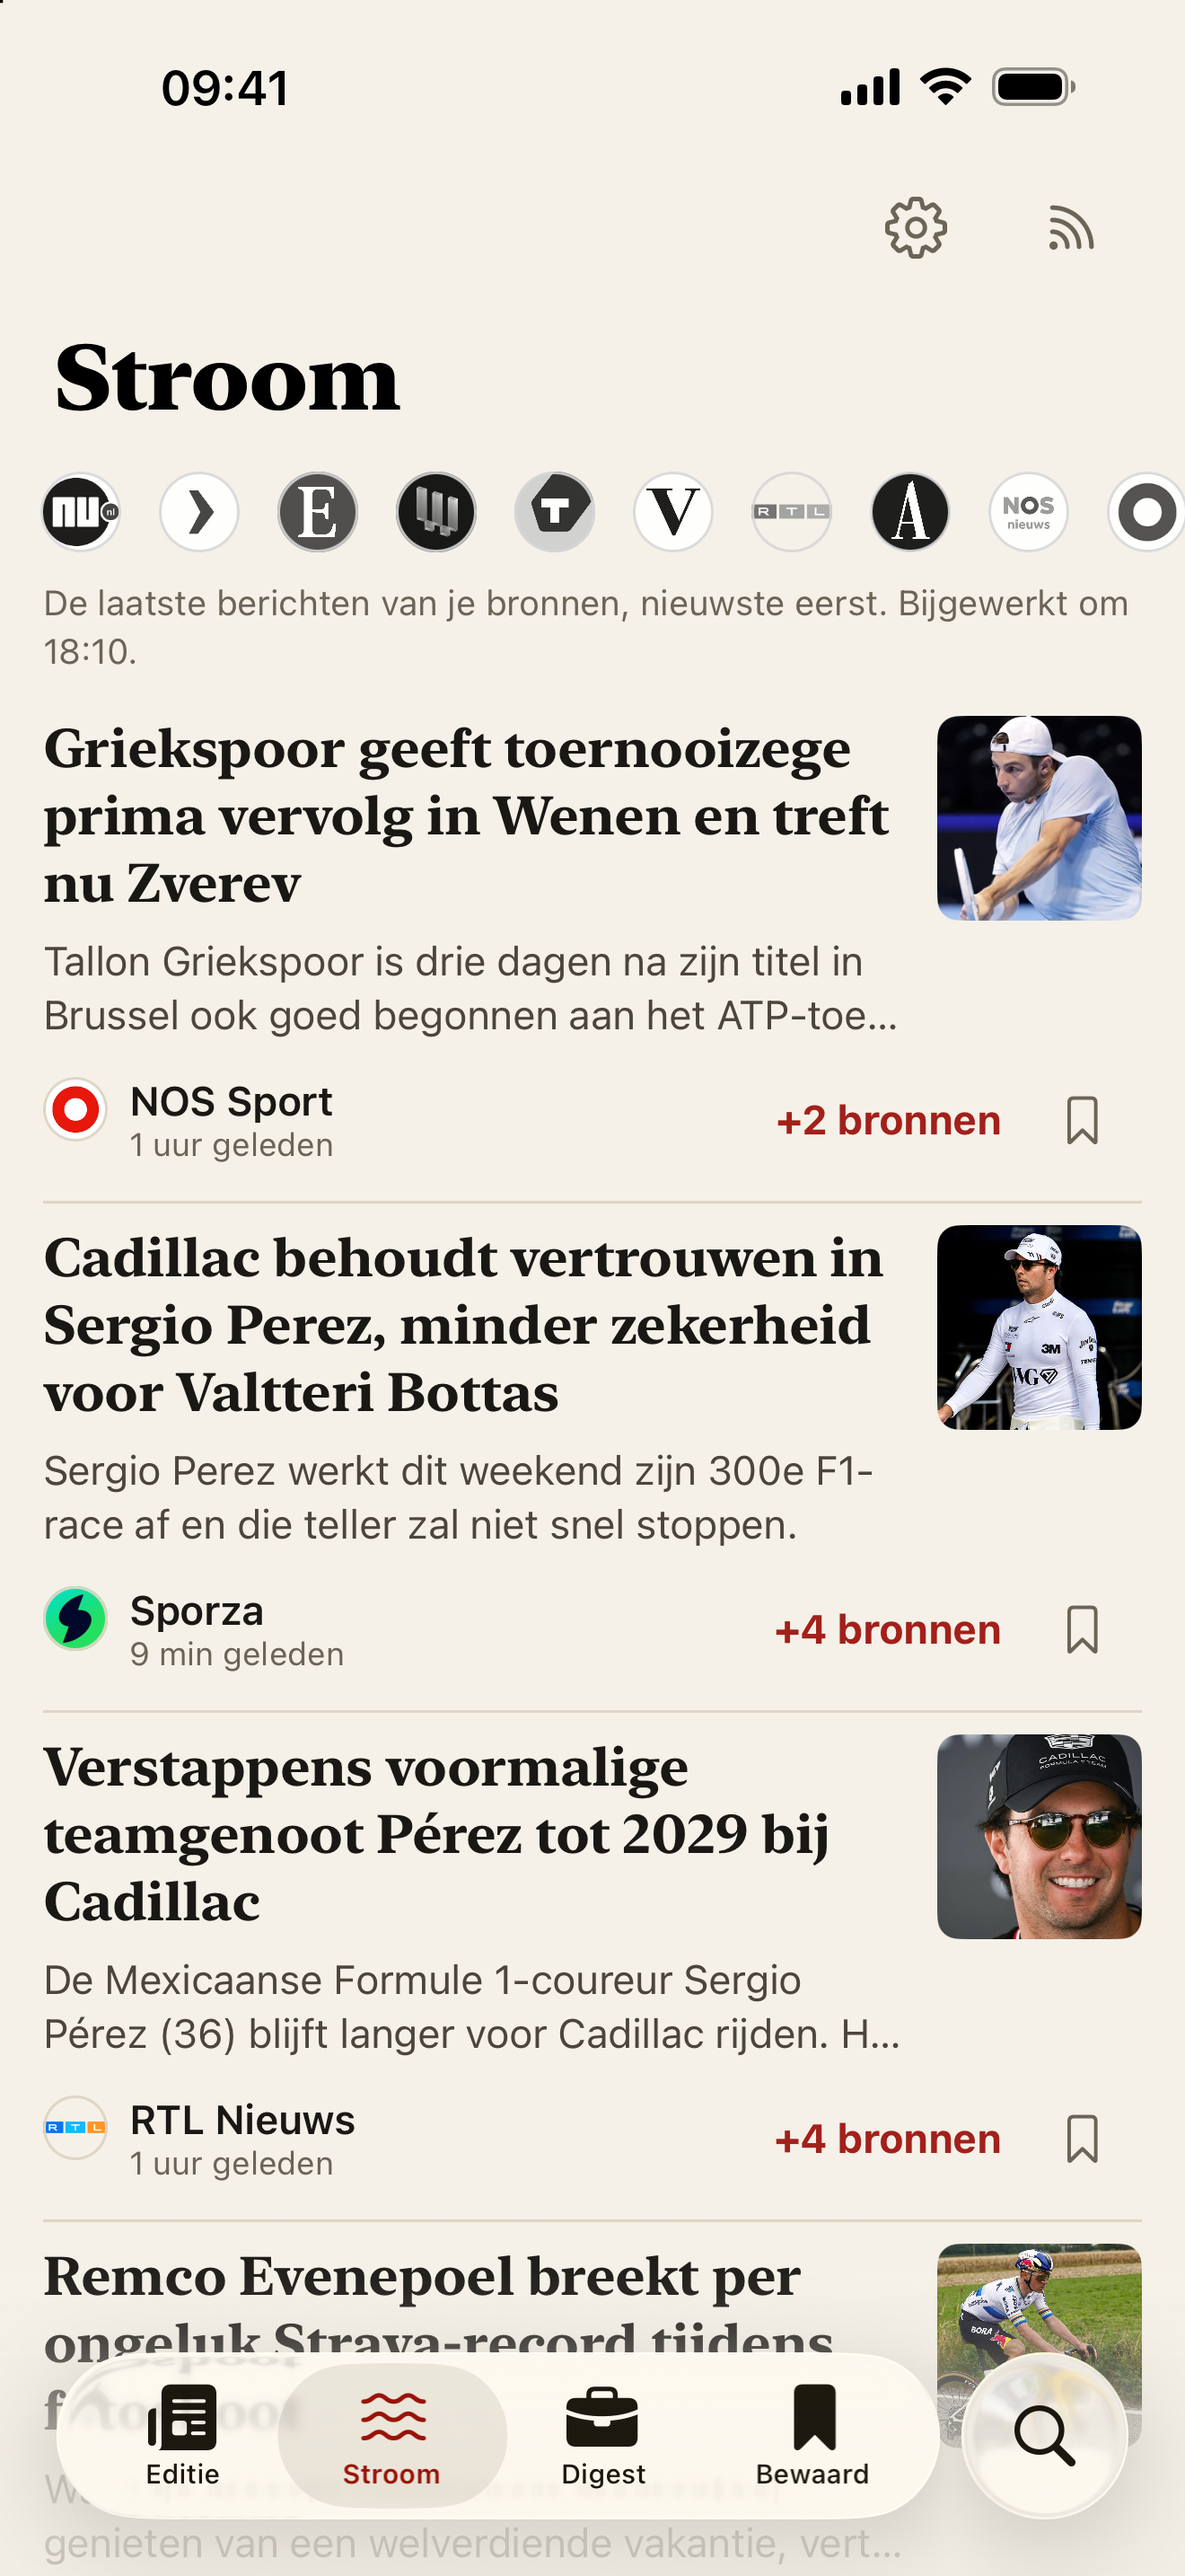
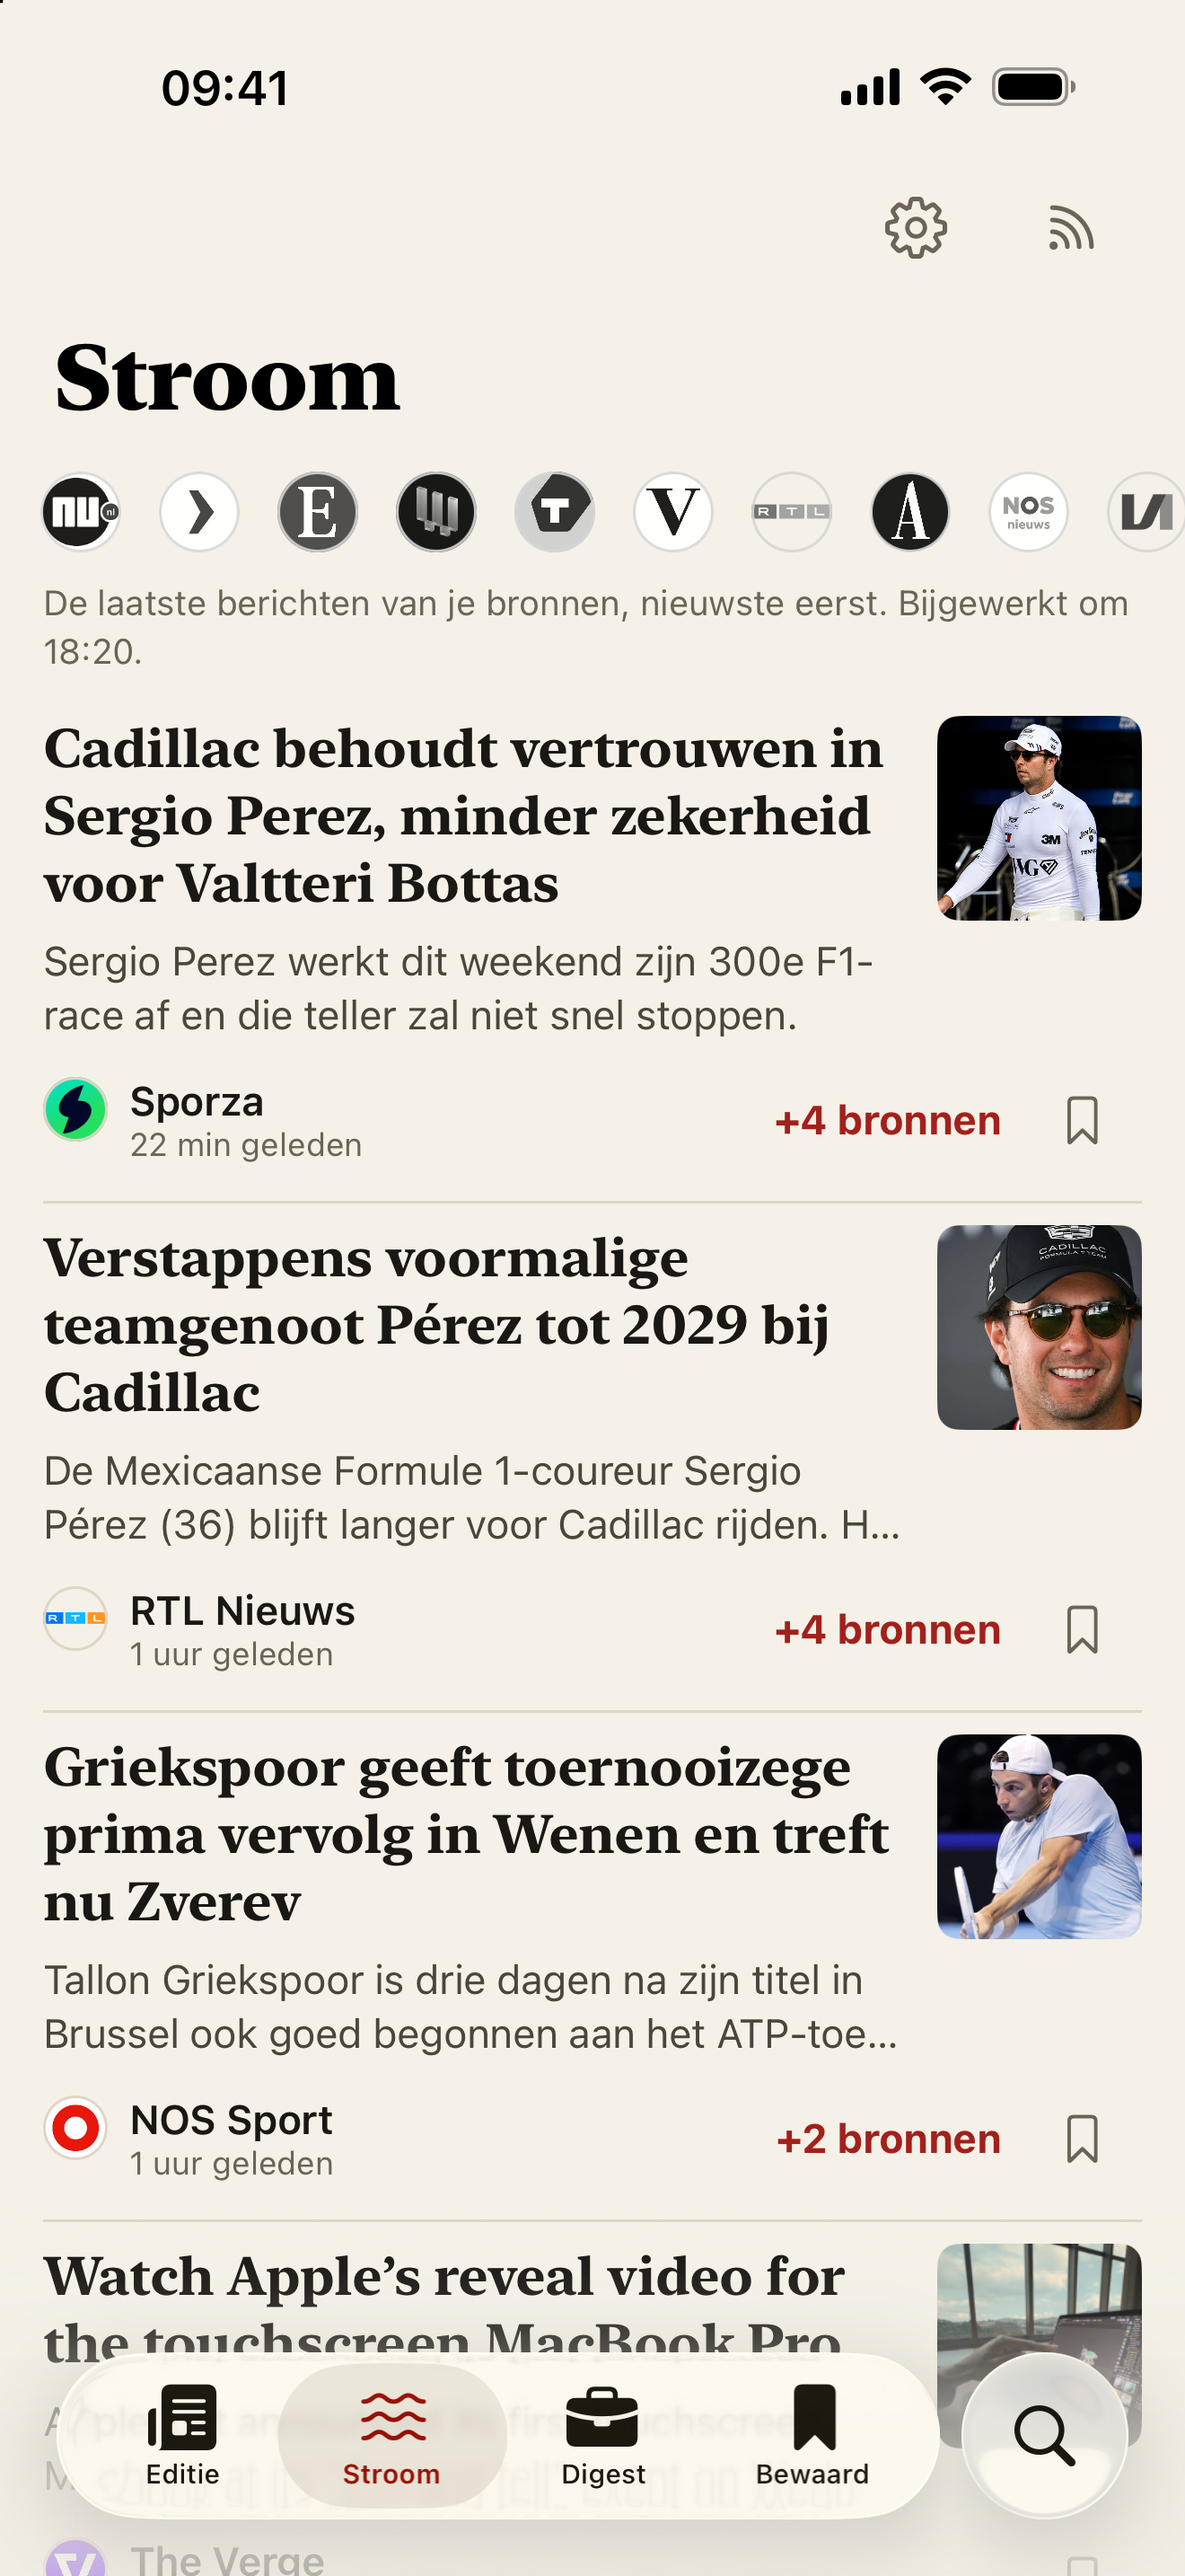
App Store: Sardinië opent, Vergelijken zonder dubbele kop (kop tikbaar), einde netjes in beeld, lezer zonder '(opent in nieuw venster)'; beschrijving noemt tien vakgebieden

diff --git a/ios/Hoot/Views/EditionView.swift b/ios/Hoot/Views/EditionView.swift
@@ -28,6 +28,10 @@ extension HootStore {
         // App Store-opnamen: gekozen echte verhalen (neutraal of positief) in de gegeven volgorde.
         if !DebugLaunch.feature.isEmpty {
             return DebugLaunch.feature.compactMap { f in
+                // Een los bericht (geen verhaal): dat bericht zelf.
+                if storiesById[f.id] == nil, let item = itemsById[f.id] {
+                    return EditionRowModel(id: item.id, item: item, story: item.storyId.flatMap { storiesById[$0] }, label: f.label, desk: nil)
+                }
                 // Gratis bronnen voorrang (Nederlandstalig eerst), anders het hoofdstuk van het verhaal.
                 guard let story = storiesById[f.id] else { return nil }
                 let all = ([story.leadId].compactMap { $0 } + story.itemIds).compactMap { itemsById[$0] }
@@ -56,6 +60,13 @@ extension HootStore {
 }
 
 struct EditionView: View {
+    // `-HootScroll slot`: het voorlaatste verhaal bovenaan, zodat het einde met twee verhalen erboven in beeld staat.
+    static func slotTarget(_ rows: [EditionRowModel]) -> String? {
+        #if DEBUG
+        if UserDefaults.standard.string(forKey: "HootScroll") == "slot", rows.count >= 2 { return rows[rows.count - 2].id }
+        #endif
+        return nil
+    }
     @Environment(HootStore.self) private var store
     @Environment(\.openTab) private var openTab
     @Environment(\.isWide) private var wide
@@ -69,6 +80,7 @@ struct EditionView: View {
 
     var body: some View {
         NavigationStack(path: $path) {
+            ScrollViewReader { proxy in
             ScrollView {
                 LazyVStack(alignment: .leading, spacing: 0) {
                     let rows = store.editionRows
@@ -133,6 +145,8 @@ struct EditionView: View {
                 .padding(.horizontal)
                 .column(wide ? Layout.wide : Layout.readable)
             }
+            .debugJump(proxy, to: Self.slotTarget(store.editionRows), when: store.editionRows.count)
+            }
             .debugScroll()
             .background(Theme.paper)
             .navigationTitle(title)
@@ -182,7 +196,10 @@ struct StoryView: View {
                 }
             }
             .listRowBackground(Color.clear)
-            ForEach(items) { item in
+            .contentShape(Rectangle())
+            .opensArticle(items.first(where: { $0.id == story.leadId }) ?? items.first)
+            // Het hoofdbericht staat al bovenaan (tik op de kop): niet nog eens in de lijst.
+            ForEach(items.filter { $0.id != (items.first(where: { $0.id == story.leadId }) ?? items.first)?.id }) { item in
                 // In een lijst maakt een link in de rij de hele rij tot link: hier geen bronlink.
                 ItemRow(item: item, label: label(item), linkSource: false)
                     .listRowBackground(Theme.surface)

diff --git a/ios/Hoot/Reader/ArticleLoader.swift b/ios/Hoot/Reader/ArticleLoader.swift
@@ -189,6 +189,15 @@ final class ArticleLoader: NSObject, WKNavigationDelegate, WKUIDelegate {
               h.remove();
             }
           });
+          // Verborgen hulptekst van sites die in de lezer zichtbaar wordt: "(opent in nieuw venster)".
+          var HINT = /\s*\(?(opent in (een )?nieuw (venster|tabblad)|opens in (a )?new (window|tab)|externe link|external link)\)?\s*/gi;
+          box.querySelectorAll('a, span').forEach(function (el) {
+            var t = (el.textContent || '').trim();
+            if (t && !el.children.length && t.replace(HINT, '') === '') { el.remove(); return; }
+          });
+          var walker = document.createTreeWalker(box, NodeFilter.SHOW_TEXT);
+          var node;
+          while ((node = walker.nextNode())) { if (HINT.test(node.nodeValue)) { HINT.lastIndex = 0; node.nodeValue = node.nodeValue.replace(HINT, function (m) { return /^\s/.test(m) && /\s$/.test(m) ? ' ' : ''; }); } HINT.lastIndex = 0; }
           box.querySelectorAll('ul, ol').forEach(function (l) {
             var t = (l.textContent || '').replace(/\s+/g, ' ').trim();
             if (t.length < 200 && (l.querySelectorAll('a').length > 0 || t.length < 40)) l.remove();

diff --git a/ios/Hoot/DebugLaunch.swift b/ios/Hoot/DebugLaunch.swift
@@ -4,7 +4,7 @@ import SwiftUI
 // zonder te tikken (zie ios/AppStore/tools/device-screens.sh). Startargumenten:
 //   -HootStartTab editie|stroom|digest|bewaard|zoek
 //   -HootScreen verhaal|lezer|bronnen|bluesky|video|instellingen|instellingen-bronnen|instellingen-vakken|instellingen-wissen
-//   -HootScroll midden|onder   -HootQuery <tekst>   -HootDark YES   -HootLargeText YES   -HootOffline YES
+//   -HootScroll midden|onder|slot   -HootQuery <tekst>   -HootDark YES   -HootLargeText YES   -HootOffline YES
 //   -HootSeenMinutes <n>   (de Stroom alsof je er n minuten geleden was)
 //   -HootFeature verhaal-id:Rubriek,…   (App Store-opnamen: deze echte verhalen bovenaan Editie en Stroom)
 // In Release doet dit allemaal niets.
@@ -27,6 +27,7 @@ enum DebugLaunch {
         switch defaults.string(forKey: "HootScroll") {
         case "midden": .center
         case "onder": .bottom
+        case "slot": .top // de laatste twee verhalen en het einde, netjes onder de balk
         default: nil
         }
     }

diff --git a/ios/Hoot/Views/Components.swift b/ios/Hoot/Views/Components.swift
@@ -264,6 +264,7 @@ struct ArticleActions: ViewModifier {
 
 extension View {
     func opensArticle(_ item: Item) -> some View { modifier(ArticleActions(item: item)) }
+    @ViewBuilder func opensArticle(_ item: Item?) -> some View { if let item { opensArticle(item) } else { self } }
 }
 
 // ---- Vorm 1: hoofdverhaal ----
